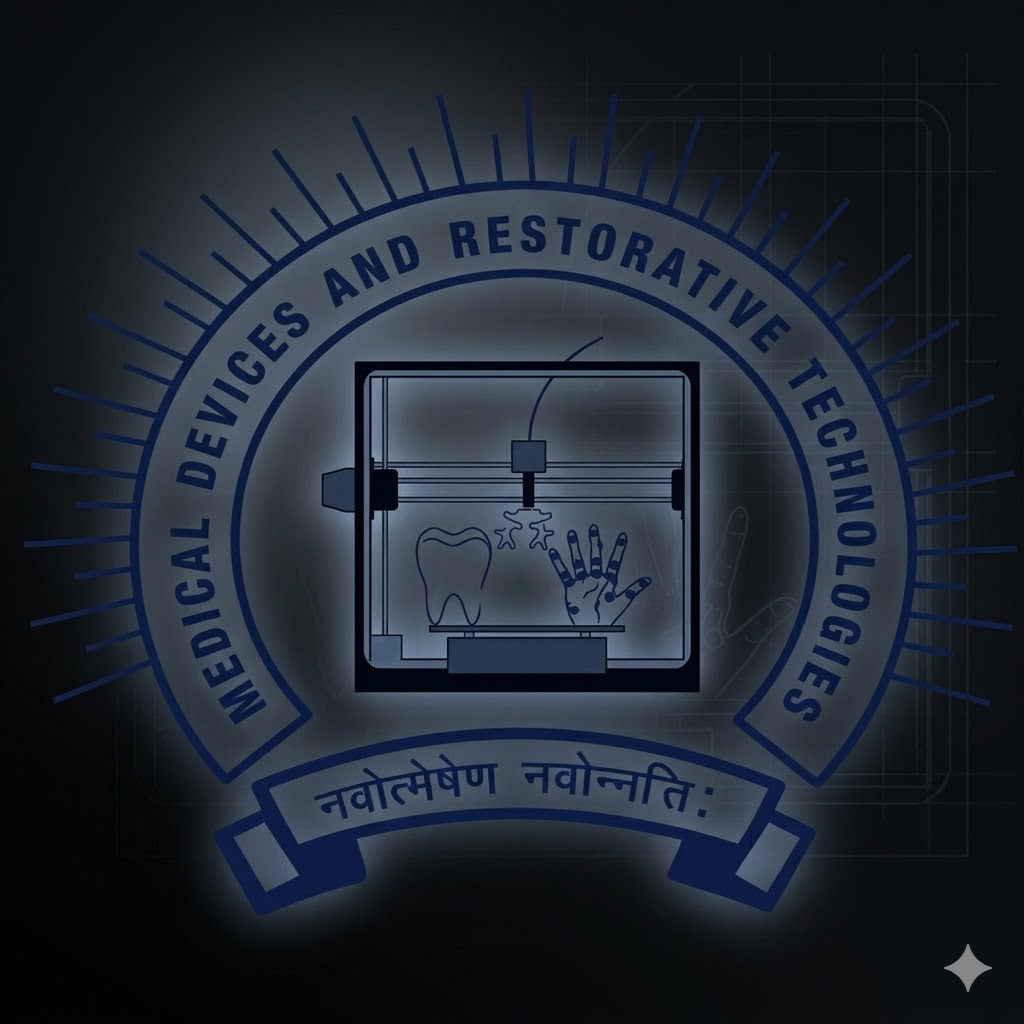
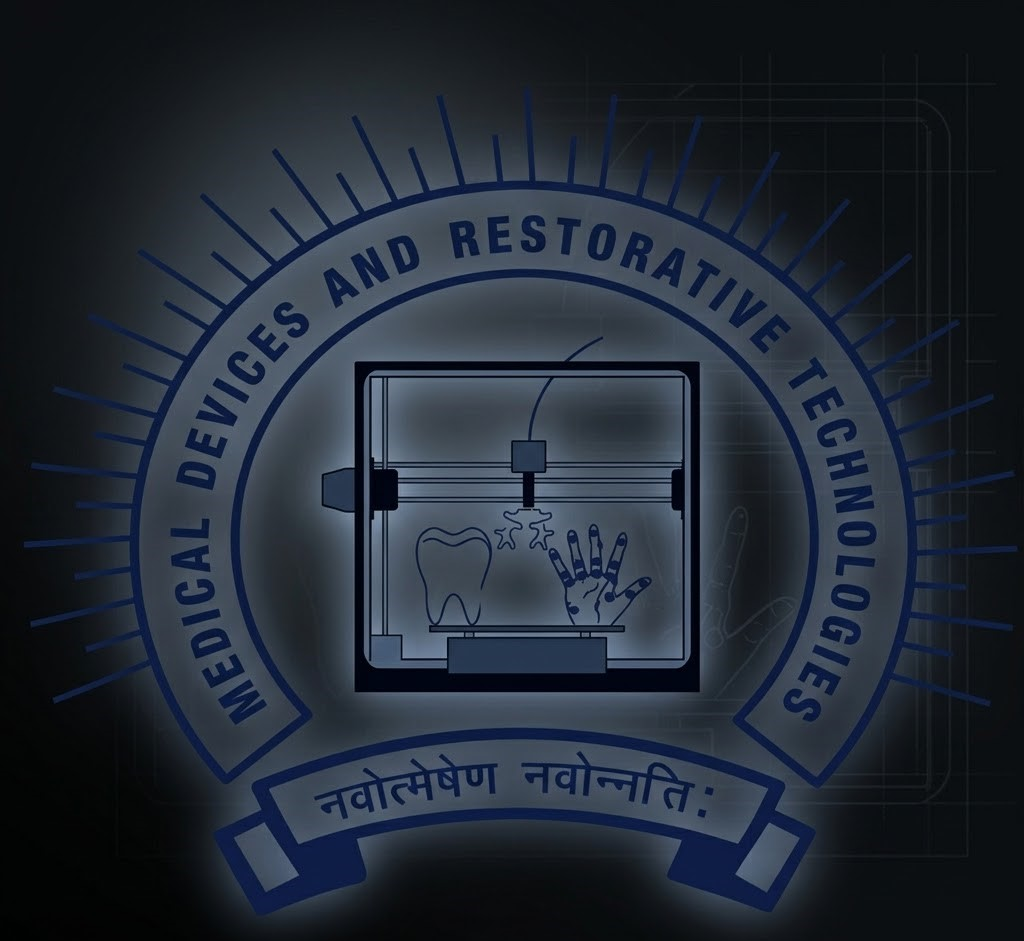
solved the image error and created a git_ignore file

diff --git a/index.html b/index.html
@@ -82,36 +82,28 @@
 
         
 
-        <div class="experience-card">
-
-            <div class="experience-image">
-                <img src="assets/images/MDART.jpg" alt="DIC Internship">
-            </div>
-
-            <div class="experience-content">
-
-                <span class="experience-role">
-                    Embedded ML • Computer Vision
-                </span>
-
-                <h3>DIC Internship</h3>
-
-                <p>
-                    Worked on embedded ML systems for prosthetic hand control,
-                    deploying CNN-based onboard inference pipelines on ESP32
-                    for real-time gesture classification.
-                </p>
-
-                <div class="tech-stack">
-                    <span>ESP32</span>
-                    <span>CNN</span>
-                    <span>OpenCV</span>
-                    <span>Embedded C</span>
-                </div>
-
-            </div>
-
+      <div class="experience-card">
+        <div class="experience-image">
+            <img src="assets/images/MDART.jpg" alt="DIC Internship">
         </div>
+        <div class="experience-content">
+            <span class="experience-role">
+                Embedded ML • Computer Vision
+            </span>
+            <h3>DIC Internship</h3>
+            <p>
+                Worked on embedded ML systems for prosthetic hand control,
+                deploying CNN-based onboard inference pipelines on ESP32
+                for real-time gesture classification.
+            </p>
+            <div class="tech-stack">
+                <span>ESP32</span>
+                <span>CNN</span>
+                <span>OpenCV</span>
+                <span>Embedded C</span>
+            </div>
+        </div>
+      </div>
 
 
         